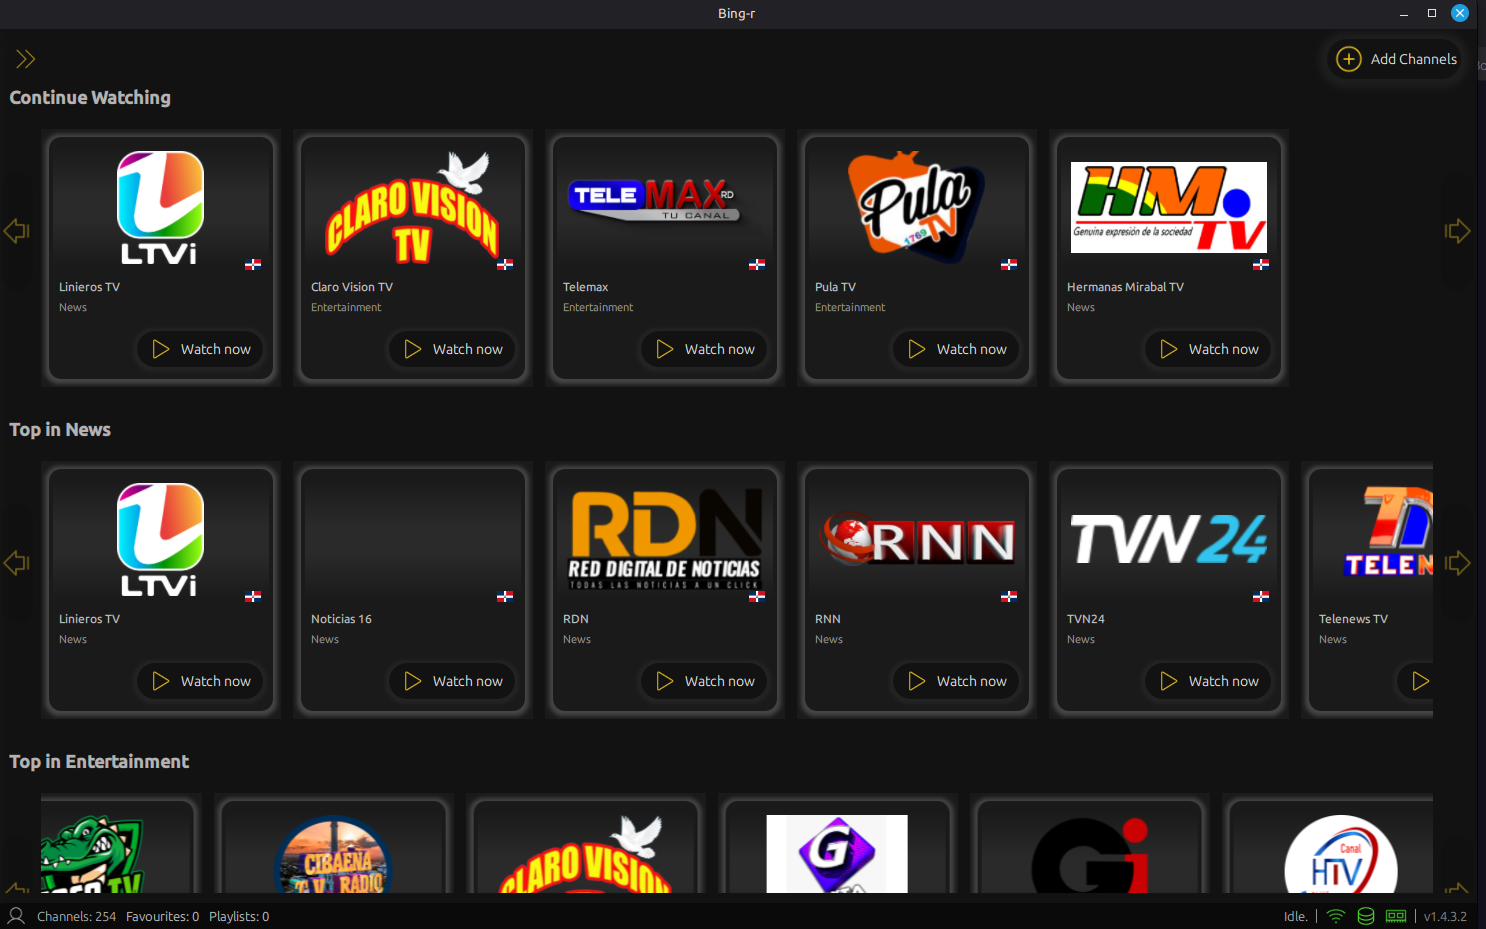
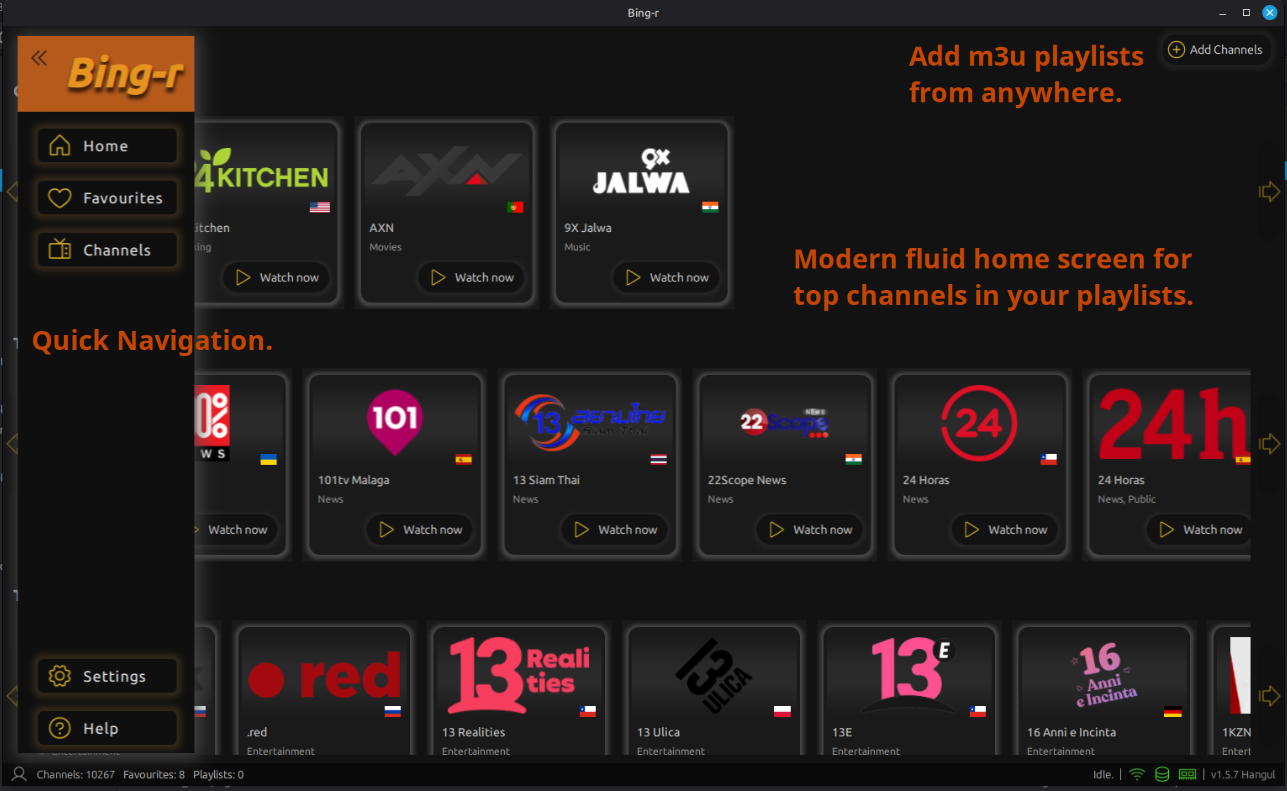
Update README.md, io.github.vireshwali.Bing-r.metainfo.xml, Selection_1.png, and 6 more files

diff --git a/README.md b/README.md
@@ -6,9 +6,9 @@
 
 [![CI](https://img.shields.io/github/actions/workflow/status/vireshwali/Bing-r/ci.yml?branch=main&style=for-the-badge&logo=githubactions&logoColor=white&label=CI)](https://github.com/vireshwali/Bing-r/actions/workflows/ci.yml) &nbsp; [![codecov](https://img.shields.io/codecov/c/github/vireshwali/Bing-r?style=for-the-badge&logo=codecov&color=brightgreen)](https://codecov.io/gh/vireshwali/Bing-r) &nbsp; [![Release](https://img.shields.io/github/release/vireshwali/Bing-r.svg?style=for-the-badge&logo=github)](https://github.com/vireshwali/Bing-r/releases) &nbsp; [![Python](https://img.shields.io/badge/python-3.12+-blue.svg?style=for-the-badge&logo=python)](https://python.org) &nbsp; [![Qt](https://img.shields.io/badge/Qt-6.11-green.svg?style=for-the-badge&logo=qt)](https://qt.io) &nbsp; [![License](https://img.shields.io/badge/license-MIT-blue.svg?style=for-the-badge)](LICENSE)
 
-🌐 **Website** (coming soon) | **Discord/Telegram** (coming soon) | **Flatpak** (coming soon) | [Report Issues](https://github.com/vireshwali/Bing-r/issues)
+🌐 **Website** (coming soon) | **Discord/Telegram** (coming soon) | [**Get Bing-r from Flatpak**](https://flathub.org/en/apps/io.github.vireshwali.Bing-r) | [Report Issues](https://github.com/vireshwali/Bing-r/issues)
 
-**Bing-r** is a modern desktop IPTV and media player/manager application built with Python, PySide6, and Qt Quick/QML. Designed as a high-performance, desktop-native media client focused on Live TV, VOD, library management, playback, discovery, and community-style metadata/reviews.
+**Bing-r** is a modern desktop IPTV and media player/manager application built with Python, PySide6, and Qt Quick/QML. Designed as a high-performance, desktop-native media client focused ultimately on Live TV, VOD, library management, playback, discovery, and community-style metadata/reviews == Simple modern App for all your Binge in one place.
 
 **Linux-first** — we believe your workstation should be the command centre for everything: work, play, and entertainment. No more juggling between six browser tabs, a media player, and a terminal. Bing-r brings it all together so you stay in the zone. Windows and macOS builds coming soon.
 
@@ -16,7 +16,7 @@
 
 > [!IMPORTANT]
 > **Official sources only.** Bing-r is a free, open-source **player** - it never sells IPTV subscriptions, channels, or playlists. Websites offering "Bing-r subscriptions/channels/premium/activated" builds are **not affiliated** with this project or this proejct's authors. <br />
-> Get the app only from the [official GitHub repository](https://github.com/vireshwali/Bing-r) or [GitHub Releases](https://github.com/vireshwali/Bing-r/releases).
+> Get the app only from the [**Flatpak**](https://flathub.org/en/apps/io.github.vireshwali.Bing-r) or [official GitHub repository](https://github.com/vireshwali/Bing-r) or [GitHub Releases](https://github.com/vireshwali/Bing-r/releases).
 
 ---
 
@@ -26,11 +26,10 @@
 - **M3U-based content manager** — import M3U / M3U8 playlists from local files or remote URLs
 - Drag-and-drop file import with instant processing
 - URL-based playlist download with automatic updates
-- EPG URL parsing from `x-tvg-url` headers
+<!-- - EPG URL parsing from `x-tvg-url` headers -->
 
 ### Playback
-- Built-in Qt Multimedia / mpv integration (planned)
-
+- Built-in high quality MPV player integration.
 
 ### Live TV & EPG
 - Channel grid with category/country/quality filters
@@ -41,11 +40,12 @@
 ### Library Management
 - SQLite database with SQLAlchemy async ORM
 - Automatic channel deduplication and merge across sources
-- Visit counting and favorites (planned)
-- Recently viewed / watch history (planned)
+- Multiple streams for channels when aavailable
+- Visit counting and favorites
+- Recently viewed / watch history
 
 ### Metadata & Enrichment
-- **iptv-org** integration — automatic channel lookup by tvg-id. Bing-r works well with iptv-org m3us and has been etsted with other popular content sources as well. As long as the m3us conform to basic m3u formats, it shoudl work well with Bing-r
+- **iptv-org** integration — automatic channel lookup by tvg-id. Bing-r works well with iptv-org m3us and has been tested with other popular content sources as well. As long as the m3us conform to basic m3u formats, it shoudl work well with Bing-r
 - Feed/stream matching with scored selection (format, region, name)
 - Broadcast area, categories, languages expansion
 - Canonical names, alt_names, tags, logos from iptv-org database
@@ -54,41 +54,48 @@
 - Per-source and global channel management
 - Category, country, quality filters
 - Search across channels using channel names
-- Create Playlists and Groups (planned))
+- Create Playlists and Groups (planned)
 - Command palette and keybaord shortcuts(planned)
 
 ### Platform
-- Cross-platform desktop app backbone. Focused on Linux initially (macOS, Windows planned)
+- Cross-platform desktop app backbone but Focused on Linux initially (macOS, Windows planned)
 - Native Qt Quick Controls based UI with responsive and fluid feel.
 - Dark theme. (Light theme planned)
-- Keyboard shortcuts
+<!-- - Keyboard shortcuts -->
 
 ---
 
 ## Screenshots
 
-> **Coming soon** — Screenshots will be added after UI polish.
+> **App Screenshots are for demonstration only and provided using free iptv org playlists.**
 
-### Main Channel View
-![Bing-r Channels](screenshots/channels-view.png)
+### Home View With Navigation
+<img src="screenshots/Selection_1.png" width="80%" alt="Home View With Navigation" />
 
-### Add Channels / Import
-![Bing-r Add Channels](screenshots/add-channels.png)
+### Channels View with Hero and Grid
+<img src="screenshots/Selection_2.png" width="80%" alt="Channels View with Hero and Grid" />
 
-### Home / Dashboard
-![Bing-r Home](screenshots/home.png)
+### Channels Search and Filter
+<img src="screenshots/Selection_3.png" width="80%" alt="Channels Search and Filter" />
 
-### EPG / TV Guide (Planned)
-![Bing-r EPG](screenshots/epg.png)
+### Favourites View
+<img src="screenshots/Selection_4.png" width="80%" alt="Favourites View" />
 
-### Settings
-![Bing-r Settings](screenshots/settings.png)
+### Add M3U Channels Playlists
+<img src="screenshots/Selection_5.png" width="80%" alt="Add M3U Channels Playlists" />
+
+### Player view for quick and easy Binge
+<img src="screenshots/Selection_6.png" width="80%" alt="Player view for quick and easy Binge" />
+
+### Full Screen Player but embedded in the App
+<img src="screenshots/Selection_7.png" width="80%" alt="Full Screen Player but embedded in the App" />
 
 ---
 
 ## Installation
+### From [Flatpak](https://flathub.org/en/apps/io.github.vireshwali.Bing-r) Recommended
 
-### From Source (Recommended)
+### From Source 
 
 ```bash
 # Prerequisites: Python 3.12+, uv (or pip)
@@ -118,8 +125,8 @@ ruff check . --fix
 uv run basedpyright
 ```
 
-### Packaged Builds (Planned)
-- Linux: AppImage, Flatpak, Snap
+### Packaged Builds
+- Linux: [Flatpak](https://flathub.org/en/apps/io.github.vireshwali.Bing-r), Snap (Planned)
 
 Planned Later
 - macOS: .dmg (signed/notarized)
@@ -131,18 +138,17 @@ Planned Later
 
 ### Adding Playlists
 1. Open **Add Channels** from the left navigation
-2. **Drag & drop** `.m3u`/`.m3u8` files, or
-3. **Paste URLs** (up to 4) in the URL input fields
+2. **Drag & drop** `.m3u` files, or
+3. **Paste .m3u URLs** (up to 4) in the URL input fields
 4. Click **Add URLs** or wait for file processing
-5. Channels appear in the **Channels** screen automatically
+5. Channels appear in the **Home** and **Channels** screen automatically
 
 ### Navigating Channels
 - **Home** — Dashboard with quick actions
 - **Channels** — Full channel grid with filters (category, country, quality)
-- **Favourites** — Your favorite channels (planned)
-- **Playlists** — Manage imported sources (planned)
+- **Favourites** — Your favorite channels
 
-### Keyboard Shortcuts
+<!-- ### Keyboard Shortcuts
 | Shortcut | Action |
 |----------|--------|
 | `Ctrl/Cmd+K` | Open command palette (planned) |
@@ -150,13 +156,13 @@ Planned Later
 | `Space` | Play/pause (when player active) |
 | `F` | Toggle fullscreen (when player active) |
 | `M` | Mute |
-| `?` | Show shortcuts help (planned) |
+| `?` | Show shortcuts help (planned) | -->
 
 ---
 
 ## Development
 
-### Architecture Overview
+<!-- ### Architecture Overview
 ```
 src/bingr/
 ├── main.py                    # App entry: splash -> async init -> App.qml
@@ -166,7 +172,7 @@ src/bingr/
 ├── ui_models/                 # QAbstractListModel view models for QML
 ├── db/                        # SQLAlchemy models, manager, migrations
 └── common/                    # Config, cache, logging, event bus
-```
+``` -->
 
 ### Key Technologies
 - **UI**: PySide6 6.11 + Qt Quick Controls 2 + Qt Quick Layouts
@@ -204,7 +210,7 @@ uv run basedpyright
 ```
 
 ### Adding QML Components
-1. Create `.ui.qml` in `src/bingr/ui/Components/`
+1. Create `.ui.qml` or `.qml` in `src/bingr/ui/Components/`
 2. Register in `src/bingr/ui/Components/qmldir`
 3. Import in screens via `import "../Components"`
 
@@ -242,16 +248,13 @@ The name **"Bing-r"** and the Bing-r logo are trademarks of the project owner. T
 - **[orjson](https://github.com/ijl/orjson)** — Fast JSON (MIT / Apache-2.0)
 - **[python-dotenv](https://github.com/theskumar/python-dotenv)** — Environment config (BSD-3)
 
-### Data Sources
+### Data Sources Recommended
 - **[iptv-org](https://github.com/iptv-org)** — Channel / feed / stream metadata database (MIT)
   Channels, feeds, streams, categories, countries, languages, regions, cities, subdivisions — used for automatic playlist enrichment and EPG matching.
 
 ### Icons & Assets
-- Icons from various open-source icon sets (sources TBD)
-- Splash screen background (TBD)
-
-### Inspiration & Reference
-- **[IPTVnator](https://github.com/4gray/iptvnator)** — Feature reference & README structure
+- Icons from various open-source icon sets
+- Splash screen background from free images source set
 
 ---
 
@@ -260,15 +263,14 @@ Refer the License file for extended licensing terms.
 
 ---
 
-## Contributing
+## Contributing and Support
 
-Contributions are welcome! Please read our contributing guidelines (coming soon) before submitting PRs.
+Contributions Monetary support is always welcome and encouraged! Please read our contributing guidelines (coming soon) before submitting PRs.
 
-1. Fork the repository
-2. Create a feature branch
-3. Make your changes
-4. Run tests and linting
-5. Submit a pull request
+1. Create a feature branch
+2. Make your changes
+3. Run tests and linting
+4. Submit a pull request
 
 ---
 
@@ -276,7 +278,7 @@ Contributions are welcome! Please read our contributing guidelines (coming soon)
 
 - **Issues**: [GitHub Issues](https://github.com/vireshwali/Bing-r/issues)
 - **Discussions**: [GitHub Discussions](https://github.com/vireshwali/Bing-r/discussions)
-- **Security**: Email security concerns to [security@vireshwali.dev](mailto:security@vireshwali.dev)
+- **Security**/**Suggestions**: Email to [vireshwali@gmail.com](mailto:vireshwali@gmail.com)
 
 ---
 
